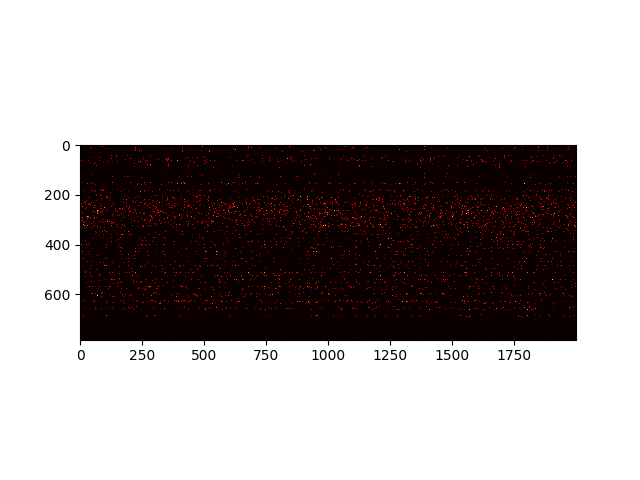
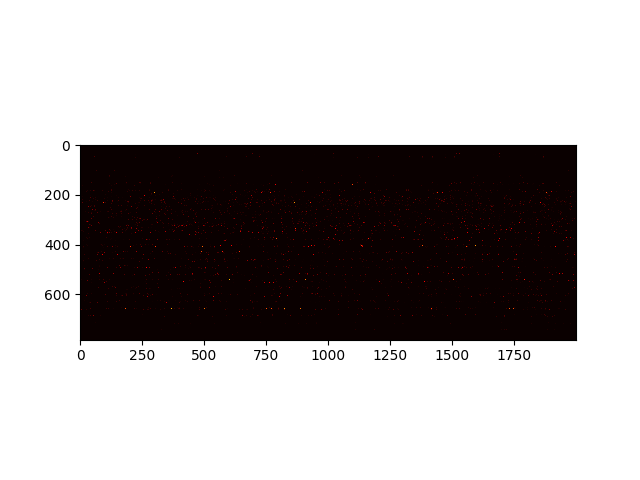
YOO, our brain works (halv the time)

Changed region(s): [[0.125, 0.4062, 0.9062, 0.5]]

diff --git a/brain.py b/brain.py
@@ -51,16 +51,17 @@ class Area():
         
         return test_input
 
-    def _get_propability_matrix(self, input):
-        props = np.zeros((self.no_classes, self.input_size))
-        for i in range(self.no_classes):
-            _input = self.k_cap(input[i], self.cap_size)
-            for j in range(self.input_size):
-                if (_input[j] >= 1):
-                    props[i, j] = self.p_r
-                else:
-                    props[i, j] = self.p_q
-        return props
+    # def _get_propability_matrix(self, input):
+    #     props = np.zeros((self.no_classes, self.input_size))
+    #     for i in range(self.no_classes):
+    #         # input[rounds[i], :]
+    #         _input = self.k_cap(input[i], self.cap_size)
+    #         for j in range(self.input_size):
+    #             if (_input[j] >= 1):
+    #                 props[i, j] = self.p_r
+    #             else:
+    #                 props[i, j] = self.p_q
+    #     return props
 
     def _get_activations(self, in_class_activations, bias=None):
         SI = in_class_activations @ self.weights + (bias if bias is not None else 0) # Correct
@@ -68,19 +69,20 @@ class Area():
         activations_t_1 = self.k_cap(SI, self.cap_size)
         return activations_t_1
 
-    def training(self, input = None, no_rounds = 10):    
+    def training(self, input = None, no_rounds = None):    
         test_input = input if input is not None else self.test_classes(self.no_classes)
-        props = self._get_propability_matrix(test_input)
 
         bias = np.zeros(self.n)
-        b = 1
+        bias_penalty = -1
+        
+        for i in range(self.no_classes):
 
-        for i in range (self.no_classes):
-            ps = props[i]
-
-            rounds = no_rounds if type(no_rounds) == int else no_rounds[i]
-            for j in range (rounds):
-                in_class_activations = np.array([1 if np.random.rand() < ps[x] else 0 for x in range(self.input_size)])
+            rounds = no_rounds[i]
+            for _ in range(rounds):
+                highest = self.k_cap(test_input[sum(no_rounds[:i])], self.cap_size)
+                prop = [self.p_r if h >= 1 else self.p_q for h in highest]
+                
+                in_class_activations = np.array([(1 if np.random.rand() < prop[x] else 0) for x in range(self.input_size)])
                 activations_t_1 = self._get_activations(in_class_activations, bias)
                 self.assembly_history[i] += activations_t_1
                 
@@ -90,7 +92,7 @@ class Area():
 
             self.y[i] = activations_t_1
             self.weights /= self.weights.sum(axis=0)
-            bias[activations_t_1 > 0] -= b
+            bias[activations_t_1 > 0] += bias_penalty
 
         with open ("output.txt", "w") as f:
             f.write(f"test class \n {test_input}\n")
@@ -105,14 +107,17 @@ class Area():
         Returns:
             Most likely class. 
         """
-        activations_t_1 = self._get_activations(input)
+        
+        highest = self.k_cap(input, self.cap_size)
+        prop = [self.p_r if h >= 1 else self.p_q for h in highest]
+        in_class_activations = np.array([(1 if np.random.rand() < prop[x] else 0) for x in range(self.input_size)])
+        activations_t_1 = self._get_activations(in_class_activations)
         
         likely_class = None
         best_score = 0
         
         for key, values in self.y.items():
             score = np.sum(np.array(values) == activations_t_1)
-            print("score: ", score)
             if score > best_score:
                 best_score = score
                 likely_class = key

diff --git a/mnist.py b/mnist.py
@@ -4,10 +4,10 @@ import numpy as np
 from brain import *
 
 def main():
-    area = Area(no_classes=10, cap_size=300, n=2000, in_n=784)
+    area = Area(no_classes=10, cap_size=200, n=2000, in_n=784, beta=0.2)
     (X_train,y_train),(X_test,y_test) = keras.datasets.mnist.load_data()
     
-    no_data_items = 500
+    no_data_items = 3000
     labels = y_train[:no_data_items]
     idxs = np.argsort(labels)
     X_train = [X_train[i] for i in idxs]        
@@ -16,17 +16,20 @@ def main():
     for i in range(10):
         no_of_rounds.append(labels.count(i))
     
+    print("no_of_rounds: ", no_of_rounds)
+    
     input = np.array([np.matrix.flatten(x) for x in X_train])
     y = area.training(input, no_rounds=no_of_rounds)
     
     
     diff = []
-    for i in range(20):     
+    for i in range(100):     
         out = area.predict(np.matrix.flatten(X_test[i]))
         expected = y_test[i]
         
         diff.append(out - expected)
         
+        if i >= 10: continue
         print("Expected: ", expected)
         print("Predicted: ", out)
         print("----------------------------------------")
